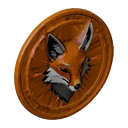
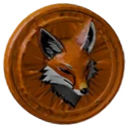
ui: path sigils face-on, drawn without the ring (TB-193h) (#224)

diff --git a/src/render/sigil.ts b/src/render/sigil.ts
@@ -61,7 +61,8 @@ const magpie = (c: G, t: (typeof PATH_TINT)['magpie']): void => {
   c.fillStyle = P.starGold; c.fill();
 };
 
-/** Draw a path's sigil filling the canvas: a carved ring, the mark, and a glow when lit (the chosen path). */
+/** Draw a path's sigil filling the canvas: the medallion picture alone once loaded (TB-193h), else a carved ring and the
+ *  vector mark; a glow when lit (the chosen path). */
 export function drawSigil(cv: HTMLCanvasElement, path: PathId, lit: boolean): void {
   // a fixed backing size, so a card drawn while its tab is hidden (no layout yet) is still sharp when shown
   const w = SIGIL_PX, h = SIGIL_PX;
@@ -70,14 +71,21 @@ export function drawSigil(cv: HTMLCanvasElement, path: PathId, lit: boolean): vo
   const k = Math.min(w, h) / 100, t = PATH_TINT[path];
   c.setTransform(1, 0, 0, 1, 0, 0); c.clearRect(0, 0, w, h);
   c.setTransform(k, 0, 0, k, (w - 100 * k) / 2, (h - 100 * k) / 2);
+  const pic = pics.get(path);
+  if (pic) {
+    // TB-193h: the medallion picture alone, face-on, no ring or disc behind it; the chosen path glows round its edge
+    if (lit) { c.shadowColor = t.light; c.shadowBlur = 10 * k; }
+    c.drawImage(pic, 4, 4, 92, 92);
+    c.shadowColor = P.noShadow; c.shadowBlur = 0;
+    return;
+  }
+  want(path, cv, lit);
   c.beginPath(); c.arc(50, 50, 46, 0, 6.283); c.fillStyle = P.ink; c.fill();
   c.lineWidth = 3; c.strokeStyle = lit ? t.light : t.deep; c.shadowColor = lit ? t.light : P.noShadow; c.shadowBlur = lit ? 10 * k : 0; c.stroke();
   c.shadowColor = P.noShadow; c.shadowBlur = 0;
   c.beginPath(); c.arc(50, 50, 41, 0, 6.283); c.lineWidth = 1; c.strokeStyle = P.timberDark; c.stroke();
   c.save(); c.beginPath(); c.arc(50, 50, 44, 0, 6.283); c.clip();
   if (lit) { c.shadowColor = t.light; c.shadowBlur = 6 * k; }
-  const pic = pics.get(path);
-  if (pic) c.drawImage(pic, 8, 8, 84, 84);
-  else { want(path, cv, lit); if (path === 'serpent') serpent(c, PATH_TINT.serpent); else if (path === 'fox') fox(c, PATH_TINT.fox); else magpie(c, PATH_TINT.magpie); }
+  if (path === 'serpent') serpent(c, PATH_TINT.serpent); else if (path === 'fox') fox(c, PATH_TINT.fox); else magpie(c, PATH_TINT.magpie);
   c.restore();
 }

diff --git a/docs/BACKLOG.md b/docs/BACKLOG.md
@@ -209,6 +209,7 @@ Ids are stable (`TB-###`). Status: `todo` · `doing` · `review` · `done <hash>
 | TB-193c | Paths UI: three path cards with placeholder sigils on the Replant tab (choose or clear, chosen card glows), path branches in their path's neon, unchosen paths locked with a padlock and a Replant hint, path tag on satchel set items and mythics | ui | 193a | claude | done 899e2d0 |
 | TB-193d | Path art (Meshy, director yes 3 Nov): 3 path sigils (`public/sigils/`, `src/data/pathArt.ts`), 18 path set-piece icons (`<set>-<slot>`) and 3 path mythic icons in `public/items/` | art | 193a | claude | done 419258a |
 | TB-193e | Replant path cards draw the Meshy sigils (`public/sigils/`) in their carved ring, vector sigil as fallback until the picture loads | ui | 193d | claude | done (PR) |
+| TB-193h | Path sigils face-on and bare: the three sigil pictures rectified from their tilted ellipse to a front-on circle (Meshy models not kept; `meshy_output/rectify_sigils.py`), and the card draws the picture alone with no carved ring or disc | ui | 193e | claude | done (PR) |
 | TB-195 | Game-feel UI (director 3 Nov: "looks like a website"): HUD, tooltip plates, juice kit, tokens, satchel object, battle report, UI sounds. Plan: docs/plans/game-ui.md | ui | 194 | claude | doing (TB-195a, b, g, h done) |
 | TB-195h | Carved UI art (director 3 Nov: Hades, carved wood made richer): starlight gem, wave banner, wall bar + 3 cracked states + fill, 4 tab tokens, tooltip plate, satchel leather + pocket, battle-report board + wax stamp, glowing gold March again plaque. `art/ui/carve_hud.py`, `art/ui/pack_hud.py`, `public/ui/*.webp` 1x+2x; manifest in docs/plans/game-ui.md §6 | ui | 195 | claude | done |
 | TB-195a | UI motion and feedback kit: `ui/juice.ts` (spring tweens, count-up, press, particle burst, stagger, reduced motion), `JUICE` numbers, `uiSound` hook; header starlight counts up, node buy presses and bursts | ui | 195 | claude | done 90eceaf |

diff --git a/docs/plans/specialisation.md b/docs/plans/specialisation.md
@@ -41,7 +41,7 @@ Each mythic gets a Meshy icon like the existing ones (public/items), and its own
    and SKILL-TREE.md, three sets and three mythics in `lootTables.ts`, and tests for each effect.
 2. **TB-193b Balance:** placeholder numbers (P-193) sit in BALANCE ## Proposed; sims and tuning wait for the balance phase (after features, bug bash and performance).
 3. **TB-193c UI (done):** cards sit across the top of the Replant tab, usable while the run has fallen (`choosePath`); clicking the chosen card or *No path* clears it; the pick pops and bursts in the path's light (TB-195a juice). Sigils are placeholder vectors (`src/render/sigil.ts`, `PATH_TINT` tokens) until TB-193d. Locked path nodes show a padlock and the hint "Choose the Path of the … at Replant"; path set items and mythics carry a path tag in the satchel.
-4. **TB-193d Art (done):** 3 sigils in `public/sigils/` (drawn on the Replant cards since TB-193e), 18 set-piece icons (`<set>-<slot>`) and 3 mythic icons in `public/items/`, from Meshy (548 credits).
+4. **TB-193d Art (done):** 3 sigils in `public/sigils/` (drawn on the Replant cards since TB-193e; rectified face-on and drawn without a ring, TB-193h), 18 set-piece icons (`<set>-<slot>`) and 3 mythic icons in `public/items/`, from Meshy (548 credits).
 
 ## 6. Decisions (director, 3 Nov)
 1. **Choice timing:** chosen before each prestige (Replant), changeable every run.

diff --git a/docs/ARCHITECTURE.md b/docs/ARCHITECTURE.md
@@ -63,7 +63,7 @@ tide-of-orcs/
       ground.ts, ambience.ts  field ground and ambient decoration
       camp.ts           encampment building art: Tripo sprites per-building scaled, vector fallback (TB-188c/d/e)
       campScene.ts      Camp tab scene: buildings at house scale, elf for scale, click to scene units (TB-188e)
-      sigil.ts          path sigils: Meshy pictures from public/sigils, vector fallback (TB-193c, TB-193e)
+      sigil.ts          path sigils: face-on Meshy pictures from public/sigils drawn bare, vector-in-a-ring fallback (TB-193c, TB-193e, TB-193h)
       textScale.ts      applyTextScale(), textScale() (TB-191)
       treeNav.ts        keyboard Tab order through the tree (TB-116)
       tree.ts           skill tree canvas, curved branches, lit links: cached bloom, pulses, motes, buy bursts (TB-190b), hit-test, camera ease to selection, full-screen fit (TB-189)
